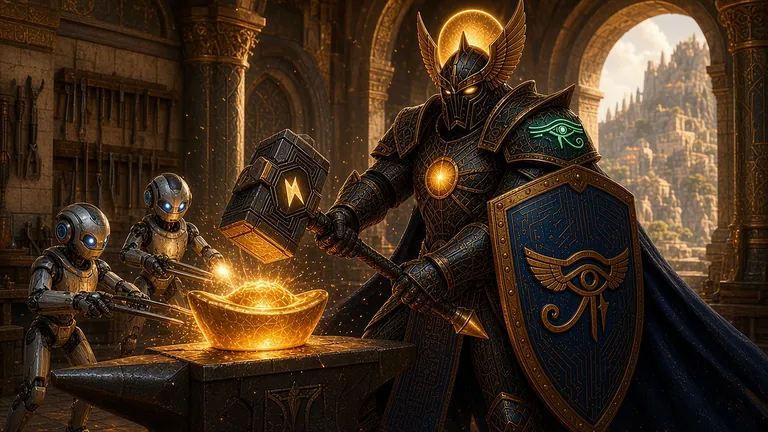
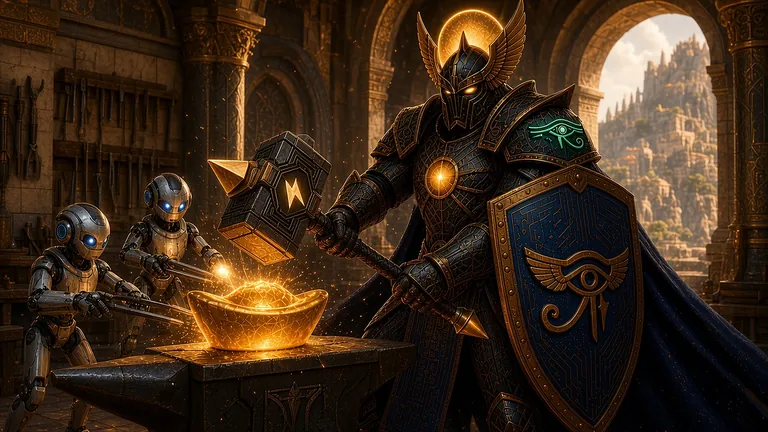
ART-UPLIFT-3: gold triangle top on the hammer in employ, examples, chat and web-forge heroes (Sherif ruling Nov 25 12:36 PM ET); re-cut thumbs

diff --git a/examples.html b/examples.html
@@ -46,7 +46,7 @@
 <body class="bg-black text-white overflow-x-hidden">
   <main class="max-w-3xl mx-auto px-4 sm:px-6 py-12 sm:py-16" id="rt-family-main" dir="ltr" lang="en" data-rt-prose>
     <figure class="rt-art-hero rounded-2xl">
-      <img src="/assets/art/hero-examples-workbench-bolt-768.webp" srcset="/assets/art/hero-examples-workbench-bolt-768.webp 768w, /assets/art/hero-examples-workbench-bolt-1280.webp 1280w" sizes="(max-width: 800px) 100vw, 768px" width="1280" height="720" alt="Ra-Thor in dark gold-trimmed armour with a winged helm and emerald eye shoulder seals rests one hand on his great war hammer, its stone head marked with a gold lightning bolt on each face, and reaches toward a glowing gold crystal on a carved workbench, with floating gold diagrams above and his lapis-blue shield propped against the bench." loading="eager" fetchpriority="high" decoding="async">
+      <img src="/assets/art/hero-examples-workbench-bolt-768.webp" srcset="/assets/art/hero-examples-workbench-bolt-768.webp 768w, /assets/art/hero-examples-workbench-bolt-1280.webp 1280w" sizes="(max-width: 800px) 100vw, 768px" width="1280" height="720" alt="Ra-Thor in dark gold-trimmed armour with a winged helm and emerald eye shoulder seals holds his great war hammer upright, its granite head marked with a gold lightning bolt and topped with a gold spike, and reaches toward a glowing gold crystal on a carved workbench, with floating gold diagrams above and his lapis-blue shield propped against the bench." loading="eager" fetchpriority="high" decoding="async">
     </figure>
     <div class="text-center mb-12">
       <h1 class="title-font text-5xl sm:text-6xl font-black tracking-tighter thunder-glow mb-3">Product examples</h1>

diff --git a/employ.html b/employ.html
@@ -53,7 +53,7 @@
       </div>
       <p class="rt-page-week"><a href="/constellation-week.html" data-i18n="weekMore">Full update note →</a></p>
       <figure class="rt-art-hero rounded-3xl">
-        <img src="/assets/art/hero-employ-commission-hall-768.webp" srcset="/assets/art/hero-employ-commission-hall-768.webp 768w, /assets/art/hero-employ-commission-hall-1672.webp 1672w" sizes="(max-width: 800px) 100vw, 768px" width="1672" height="941" alt="In a bright teal and gold hall, Ra-Thor rests one gauntlet on the haft of his great war hammer, its stone head marked with a gold lightning bolt on each face, and with his lapis-blue shield on his arm accepts a sealed, gold-ribboned scroll from a young client in a teal coat across a glowing terrain map table, while two small silver drones hover overhead." fetchpriority="high" decoding="async">
+        <img src="/assets/art/hero-employ-commission-hall-768.webp" srcset="/assets/art/hero-employ-commission-hall-768.webp 768w, /assets/art/hero-employ-commission-hall-1672.webp 1672w" sizes="(max-width: 800px) 100vw, 768px" width="1672" height="941" alt="In a bright teal and gold hall, a young client in a teal coat holds out a sealed, gold-ribboned scroll across a glowing terrain map table to Ra-Thor, who grips his great war hammer upright, its granite head marked with a gold lightning bolt and topped with a gold spike, with his lapis-blue shield on his other arm, while two small silver drones hover overhead." fetchpriority="high" decoding="async">
       </figure>
       <div class="text-center mb-12">
         <h1 data-i18n="employTitle" class="title-font text-5xl sm:text-6xl font-black tracking-tighter thunder-glow mb-3">How to employ</h1>

diff --git a/tests/hero-uniqueness.test.js b/tests/hero-uniqueness.test.js
@@ -295,8 +295,8 @@ var supplied = {
   'assets/art/hero-moment-research-garden-768.webp': 82366,
   'assets/art/hero-docs-archive-light-1280.webp': 157536,
   'assets/art/hero-docs-archive-light-768.webp': 73704,
-  'assets/art/hero-examples-workbench-bolt-1280.webp': 146156,
-  'assets/art/hero-examples-workbench-bolt-768.webp': 64276,
+  'assets/art/hero-examples-workbench-bolt-1280.webp': 146126,
+  'assets/art/hero-examples-workbench-bolt-768.webp': 61466,
   'assets/art/hero-gox-storm-signal-1280.webp': 147906,
   'assets/art/hero-gox-storm-signal-768.webp': 70348,
   'assets/art/hero-legal-hall-records-1280.webp': 91930,
